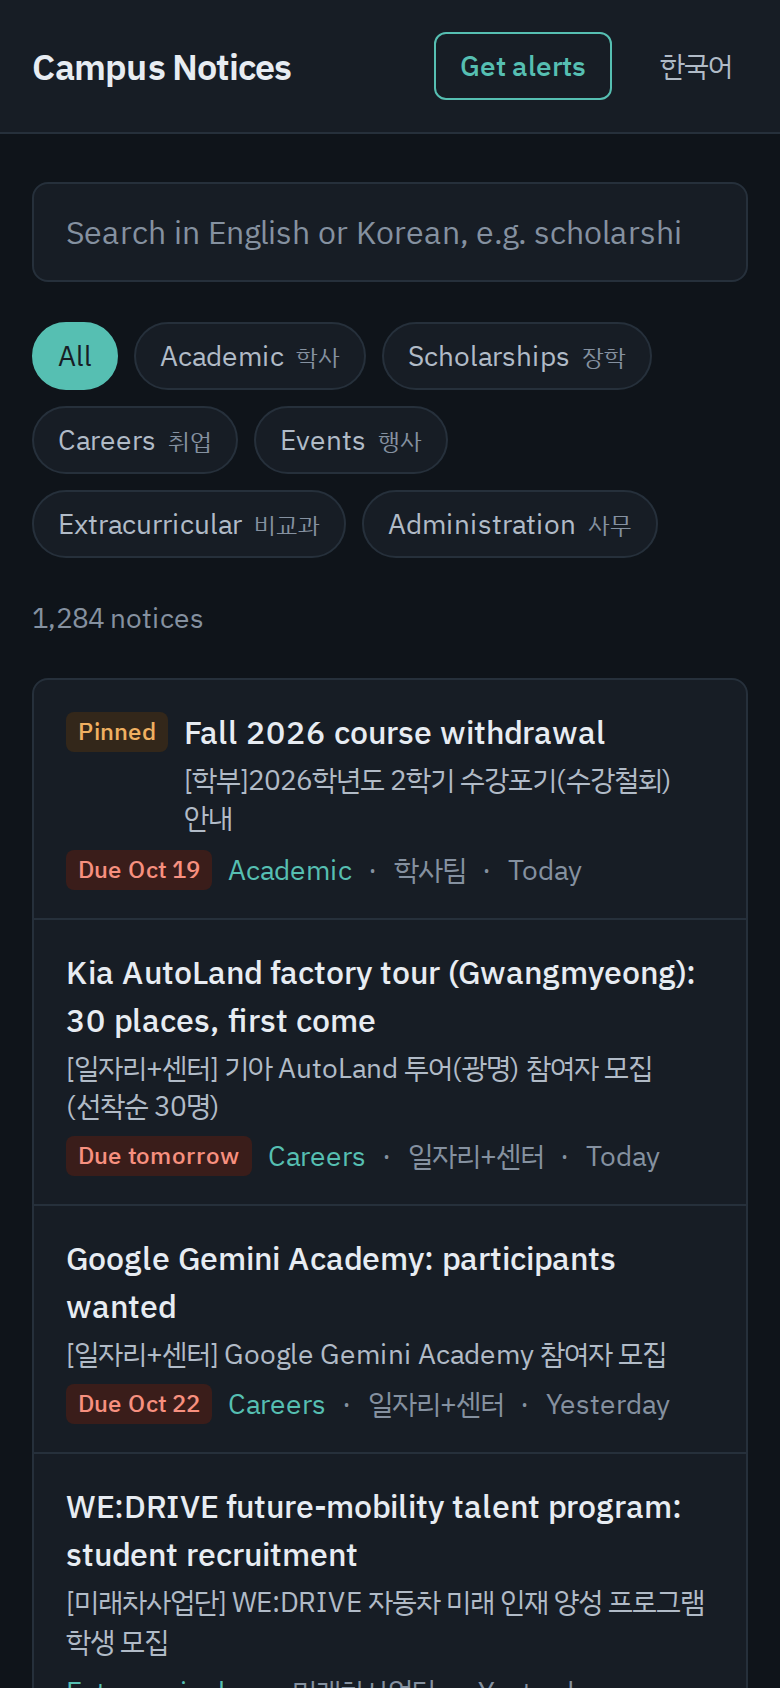
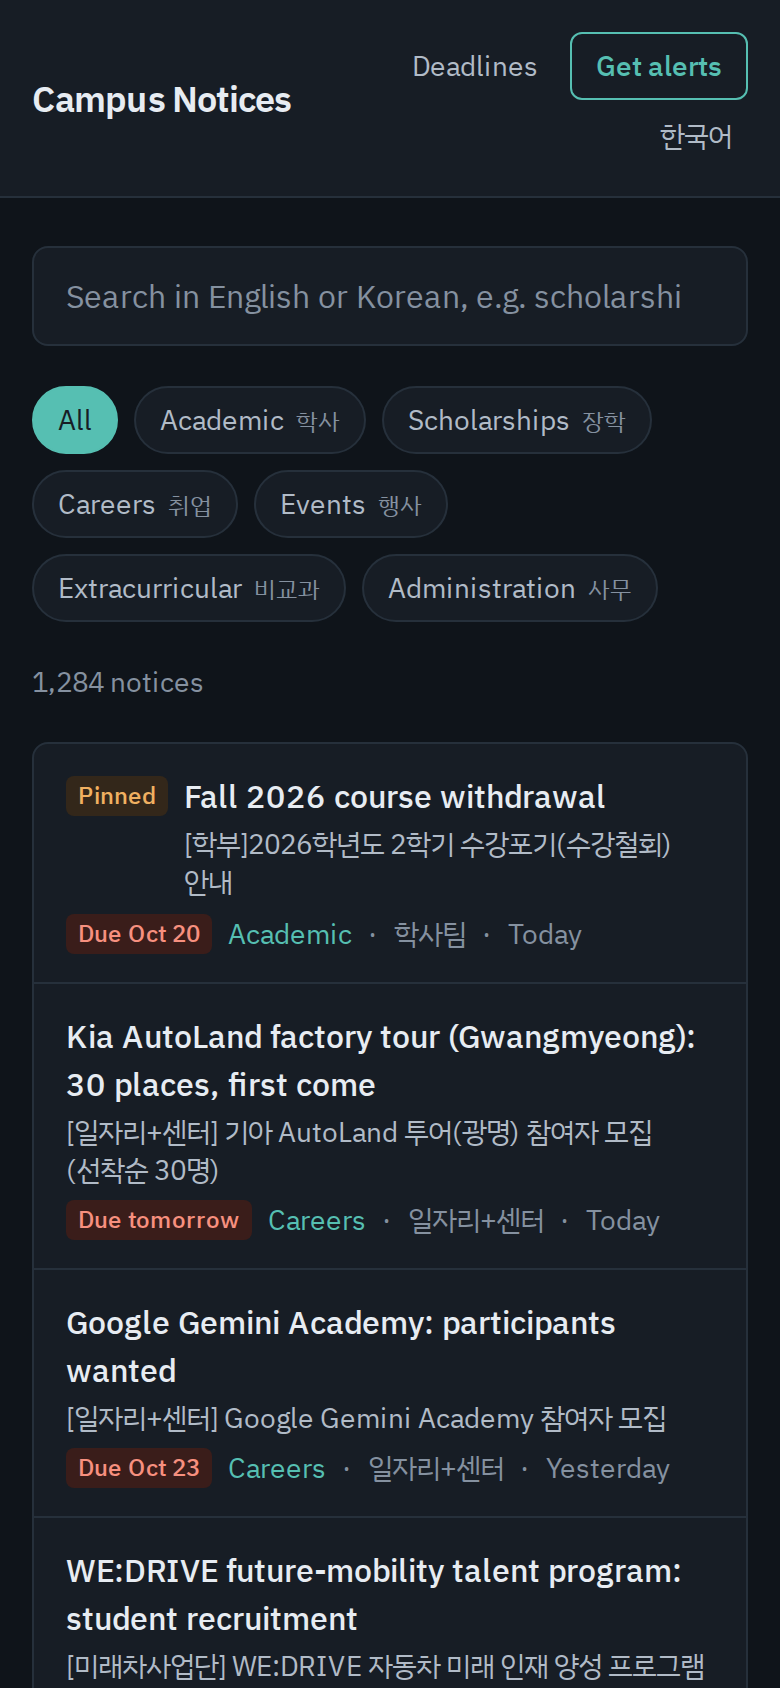
README: feature overview and fresh screenshots (#31)

diff --git a/README.md b/README.md
@@ -8,18 +8,38 @@ University announcements (course withdrawal deadlines, scholarships, dorm and jo
 the school website and written in Korean. Campus Notices collects them automatically, gives each one an English
 title and summary, and emails you when a notice matches the keywords you follow.
 
-> Status: week 4 of 4. Everything works locally and in CI; the production setup is ready and waiting for a server.
+> Status: feature-complete for a first release. Everything runs in CI (unit, integration with real PostgreSQL,
+> browser end-to-end and accessibility tests); the production setup is ready and waiting for a server.
 
 <p align="center">
   <img src="docs/screenshots/notices.png" alt="Notice list with English titles, the Korean originals underneath, deadline badges and category filters" width="640">
 </p>
 
-| Notice page | Korean interface | Phone, dark theme |
-|---|---|---|
-| <img src="docs/screenshots/notice.png" alt="Notice page with the English summary, deadline, Add to calendar link and attachments" width="300"> | <img src="docs/screenshots/notices-ko.png" alt="The notice list with the interface in Korean, Korean titles first" width="300"> | <img src="docs/screenshots/mobile-dark.png" alt="The notice list on a phone in the dark theme" width="160"> |
+| Notice page | Deadlines | Korean interface | Phone, dark theme |
+|---|---|---|---|
+| <img src="docs/screenshots/notice.png" alt="Notice page with the English summary, deadline, Add to calendar link and attachments" width="300"> | <img src="docs/screenshots/deadlines.png" alt="Upcoming deadlines page, soonest first, with a 2 weeks / 30 days switch" width="300"> | <img src="docs/screenshots/notices-ko.png" alt="The notice list with the interface in Korean, Korean titles first" width="300"> | <img src="docs/screenshots/mobile-dark.png" alt="The notice list on a phone in the dark theme" width="160"> |
 
 <sub>Screenshots use real notice titles from the Ajou board with sample summaries, served by a demo API
 (<code>frontend/scripts/screenshots.mjs</code>).</sub>
+
+## Features
+
+**For students**
+- Every notice from the main Ajou board, searchable in Korean or English, with the search words highlighted
+- An English title and summary per notice, with the deadline pulled out and an **Add to calendar** (.ics) button
+- **Deadlines** page: everything due in the next 2 weeks or 30 days, soonest first
+- **Edited** badge when the university changes a notice after posting it; the summary is rewritten
+- **Saved** notices, and "more from this office" on every notice page
+- **Keyword alerts** by email, as they come or as one daily digest after 08:00 KST, with one-click unsubscribe
+- Korean / English interface, dark mode, works on phones and can be installed like an app; Atom feeds for any search
+
+**Under the hood**
+- Polite crawler (robots.txt, 1 request/s) that re-checks the last week's notices for edits
+- Summaries through a PostgreSQL job queue with retries, backoff and locking (`FOR UPDATE SKIP LOCKED`)
+- Email sign-in links (no passwords), CSRF protection, strict security headers, per-IP rate limits
+- Prometheus metrics, freshness status in the footer, OpenAPI docs at `/api/docs`
+- CI: backend tests against real PostgreSQL (Testcontainers), coverage report, frontend unit + axe accessibility
+  tests, Playwright end-to-end tests, Docker image; Dependabot for updates
 
 ## Architecture
 
